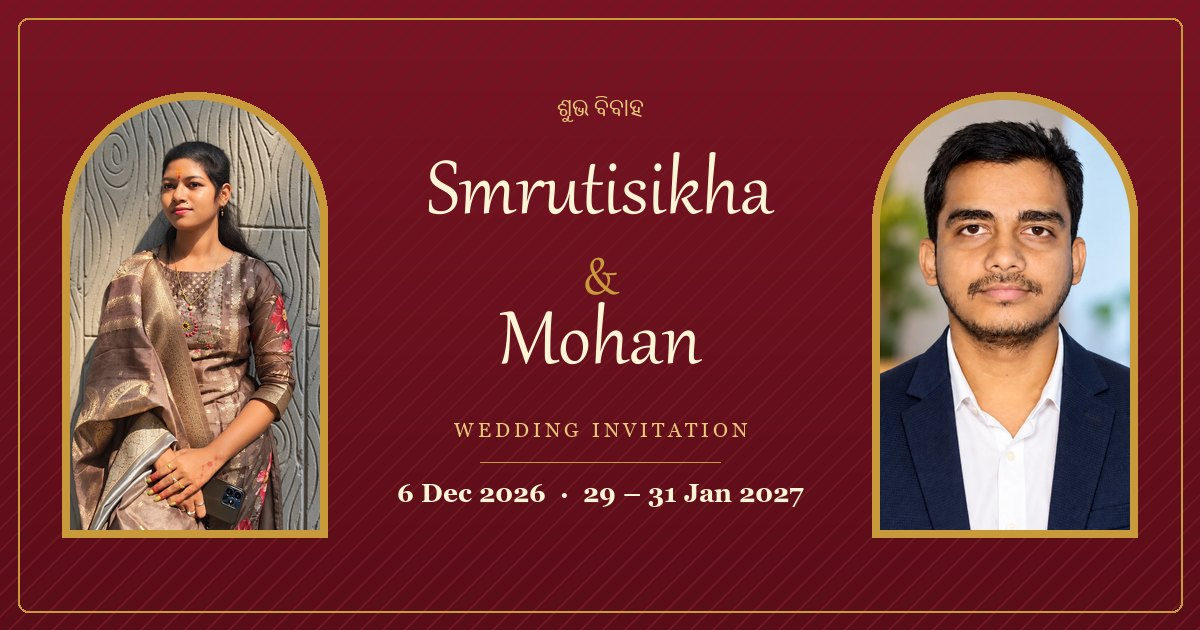
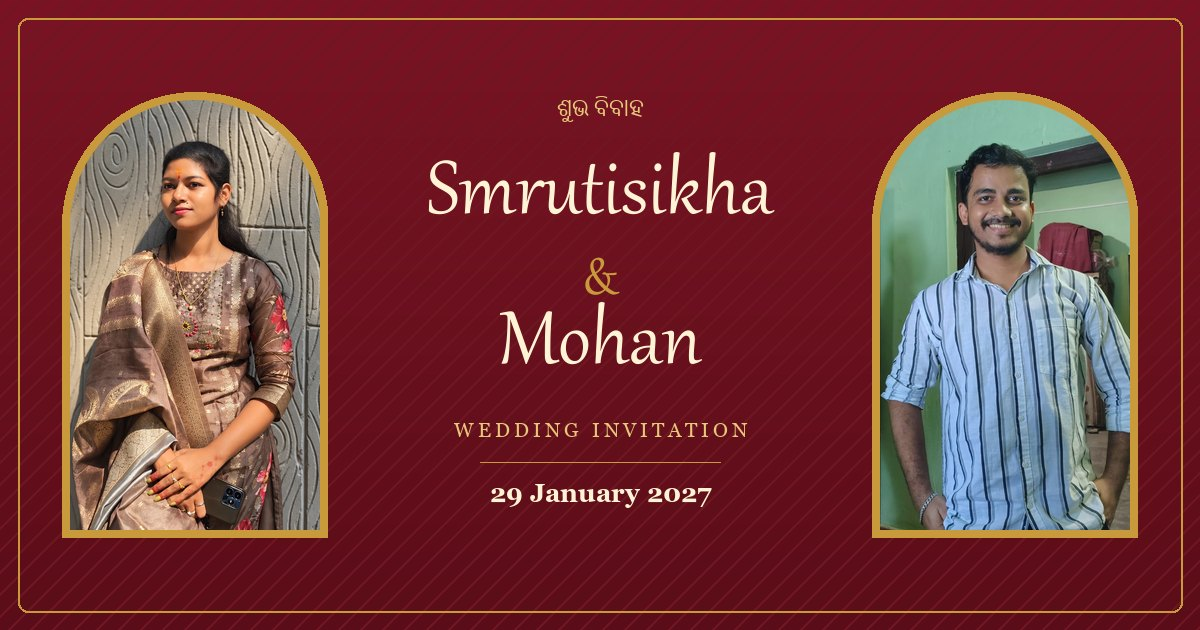
Wedding invite: new groom photo, wedding date and countdown
Show 29 January 2027 under the names, count down to the wedding day with
the engagement as a second line, and use the new groom photo in the page
and WhatsApp cover.

Changed region(s): [[0.7092, 0.1508, 0.9558, 0.8444], [0.3392, 0.754, 0.6783, 0.8143]]

diff --git a/wedding/index.html b/wedding/index.html
@@ -9,7 +9,7 @@
 <meta property="og:description" content="Engagement · Haldi · Baranu Gamana · Reception. Tap to open your invitation.">
 <meta property="og:type" content="website">
 <meta property="og:url" content="https://mak-cell.github.io/wedding/">
-<meta property="og:image" content="https://mak-cell.github.io/wedding/img/cover.jpg">
+<meta property="og:image" content="https://mak-cell.github.io/wedding/img/cover.jpg?v=2">
 <meta property="og:image:width" content="1200">
 <meta property="og:image:height" content="630">
 <meta name="twitter:card" content="summary_large_image">
@@ -282,7 +282,7 @@
       </figure>
       <span class="heart" aria-hidden="true">&amp;</span>
       <figure class="person">
-        <div class="frame"><img src="img/groom.jpg" alt="Mohan" style="object-position: 50% 30%" loading="lazy"></div>
+        <div class="frame"><img src="img/groom.jpg" alt="Mohan" style="object-position: 50% 0%" loading="lazy"></div>
         <h3>Mohan</h3>
         <p>The Groom</p>
       </figure>
@@ -361,6 +361,7 @@
 /* ============ Edit the invitation here ============ */
 const CONFIG = {
   couple: "Smrutisikha & Mohan",
+  weddingDate: "2027-01-29",             // shown under "are getting married"
   rsvpWhatsApp: "917537870782",          // country code + number, no "+"
   music: "",                             // "" = built-in instrumental; or a file next to this page, e.g. "music.mp3"
   tz: "+05:30",                          // IST
@@ -437,13 +438,7 @@ const dated = CONFIG.events.map((e, i) => ({ ...e, i })).filter(e => e.date).map
   start: at(e.date, e.time),
   over: e.time ? at(e.date, e.end || e.time).getTime() + 3 * 3600e3 : at(e.date).getTime() + 864e5
 }));
-if (dated.length) {
-  const first = dated.reduce((a, b) => a.start < b.start ? a : b).start;
-  const last = dated.reduce((a, b) => a.start > b.start ? a : b).start;
-  const y = last.getFullYear();
-  const firstYear = first.getFullYear() !== y ? ` ${first.getFullYear()}` : "";
-  $("#heroDates").textContent = fmtShort(first) === fmtShort(last) ? fmtDay(first) : `${fmtShort(first)}${firstYear} – ${fmtShort(last)} ${y}`;
-}
+$("#heroDates").textContent = fmtDay(at(CONFIG.weddingDate));
 
 // Icons
 const ICON = {
@@ -554,8 +549,12 @@ function downloadIcs(e) {
 // Countdown to the next upcoming event
 const pad = n => String(n).padStart(2, "0");
 function tick() {
+  // Counts down to the wedding day; earlier events (the engagement) get their own line below.
+  // Once the wedding day is over, it moves on to whatever event is still ahead.
   const now = Date.now();
-  const next = dated.filter(e => e.over > now).sort((a, b) => a.date.localeCompare(b.date) || a.i - b.i)[0];
+  const upcoming = dated.filter(e => e.over > now).sort((a, b) => a.date.localeCompare(b.date) || a.i - b.i);
+  const wedding = { title: "our Wedding", start: at(CONFIG.weddingDate), over: at(CONFIG.weddingDate).getTime() + 864e5 };
+  const next = wedding.over > now ? wedding : upcoming[0];
   if (!next) {
     $("#countdownSection").innerHTML = '<h2>Thank you</h2><p class="h2-sub">for being part of our celebrations and for your blessings.</p>';
     return clearInterval(timer);
@@ -565,7 +564,13 @@ function tick() {
   $("#cdH").textContent = pad(Math.floor(diff / 36e5) % 24);
   $("#cdM").textContent = pad(Math.floor(diff / 6e4) % 60);
   $("#cdS").textContent = pad(Math.floor(diff / 1e3) % 60);
-  $("#cdLabel").innerHTML = diff ? `until <strong>${esc(next.title)}</strong> · ${esc(fmtDay(next.start))}` : `<strong>${esc(next.title)}</strong> is happening today!`;
+  let label = diff ? `until <strong>${esc(next.title)}</strong> · ${esc(fmtDay(next.start))}` : `<strong>${esc(next.title)}</strong> is today!`;
+  const before = next === wedding && upcoming.find(e => e.start < wedding.start);
+  if (before) {
+    const days = Math.ceil((before.start - now) / 864e5);
+    label += `<br>${esc(before.title)} ${days > 0 ? `in ${days} day${days > 1 ? "s" : ""}` : "today"} · ${esc(fmtDay(before.start))}`;
+  }
+  $("#cdLabel").innerHTML = label;
 }
 const timer = setInterval(tick, 1000);
 tick();
